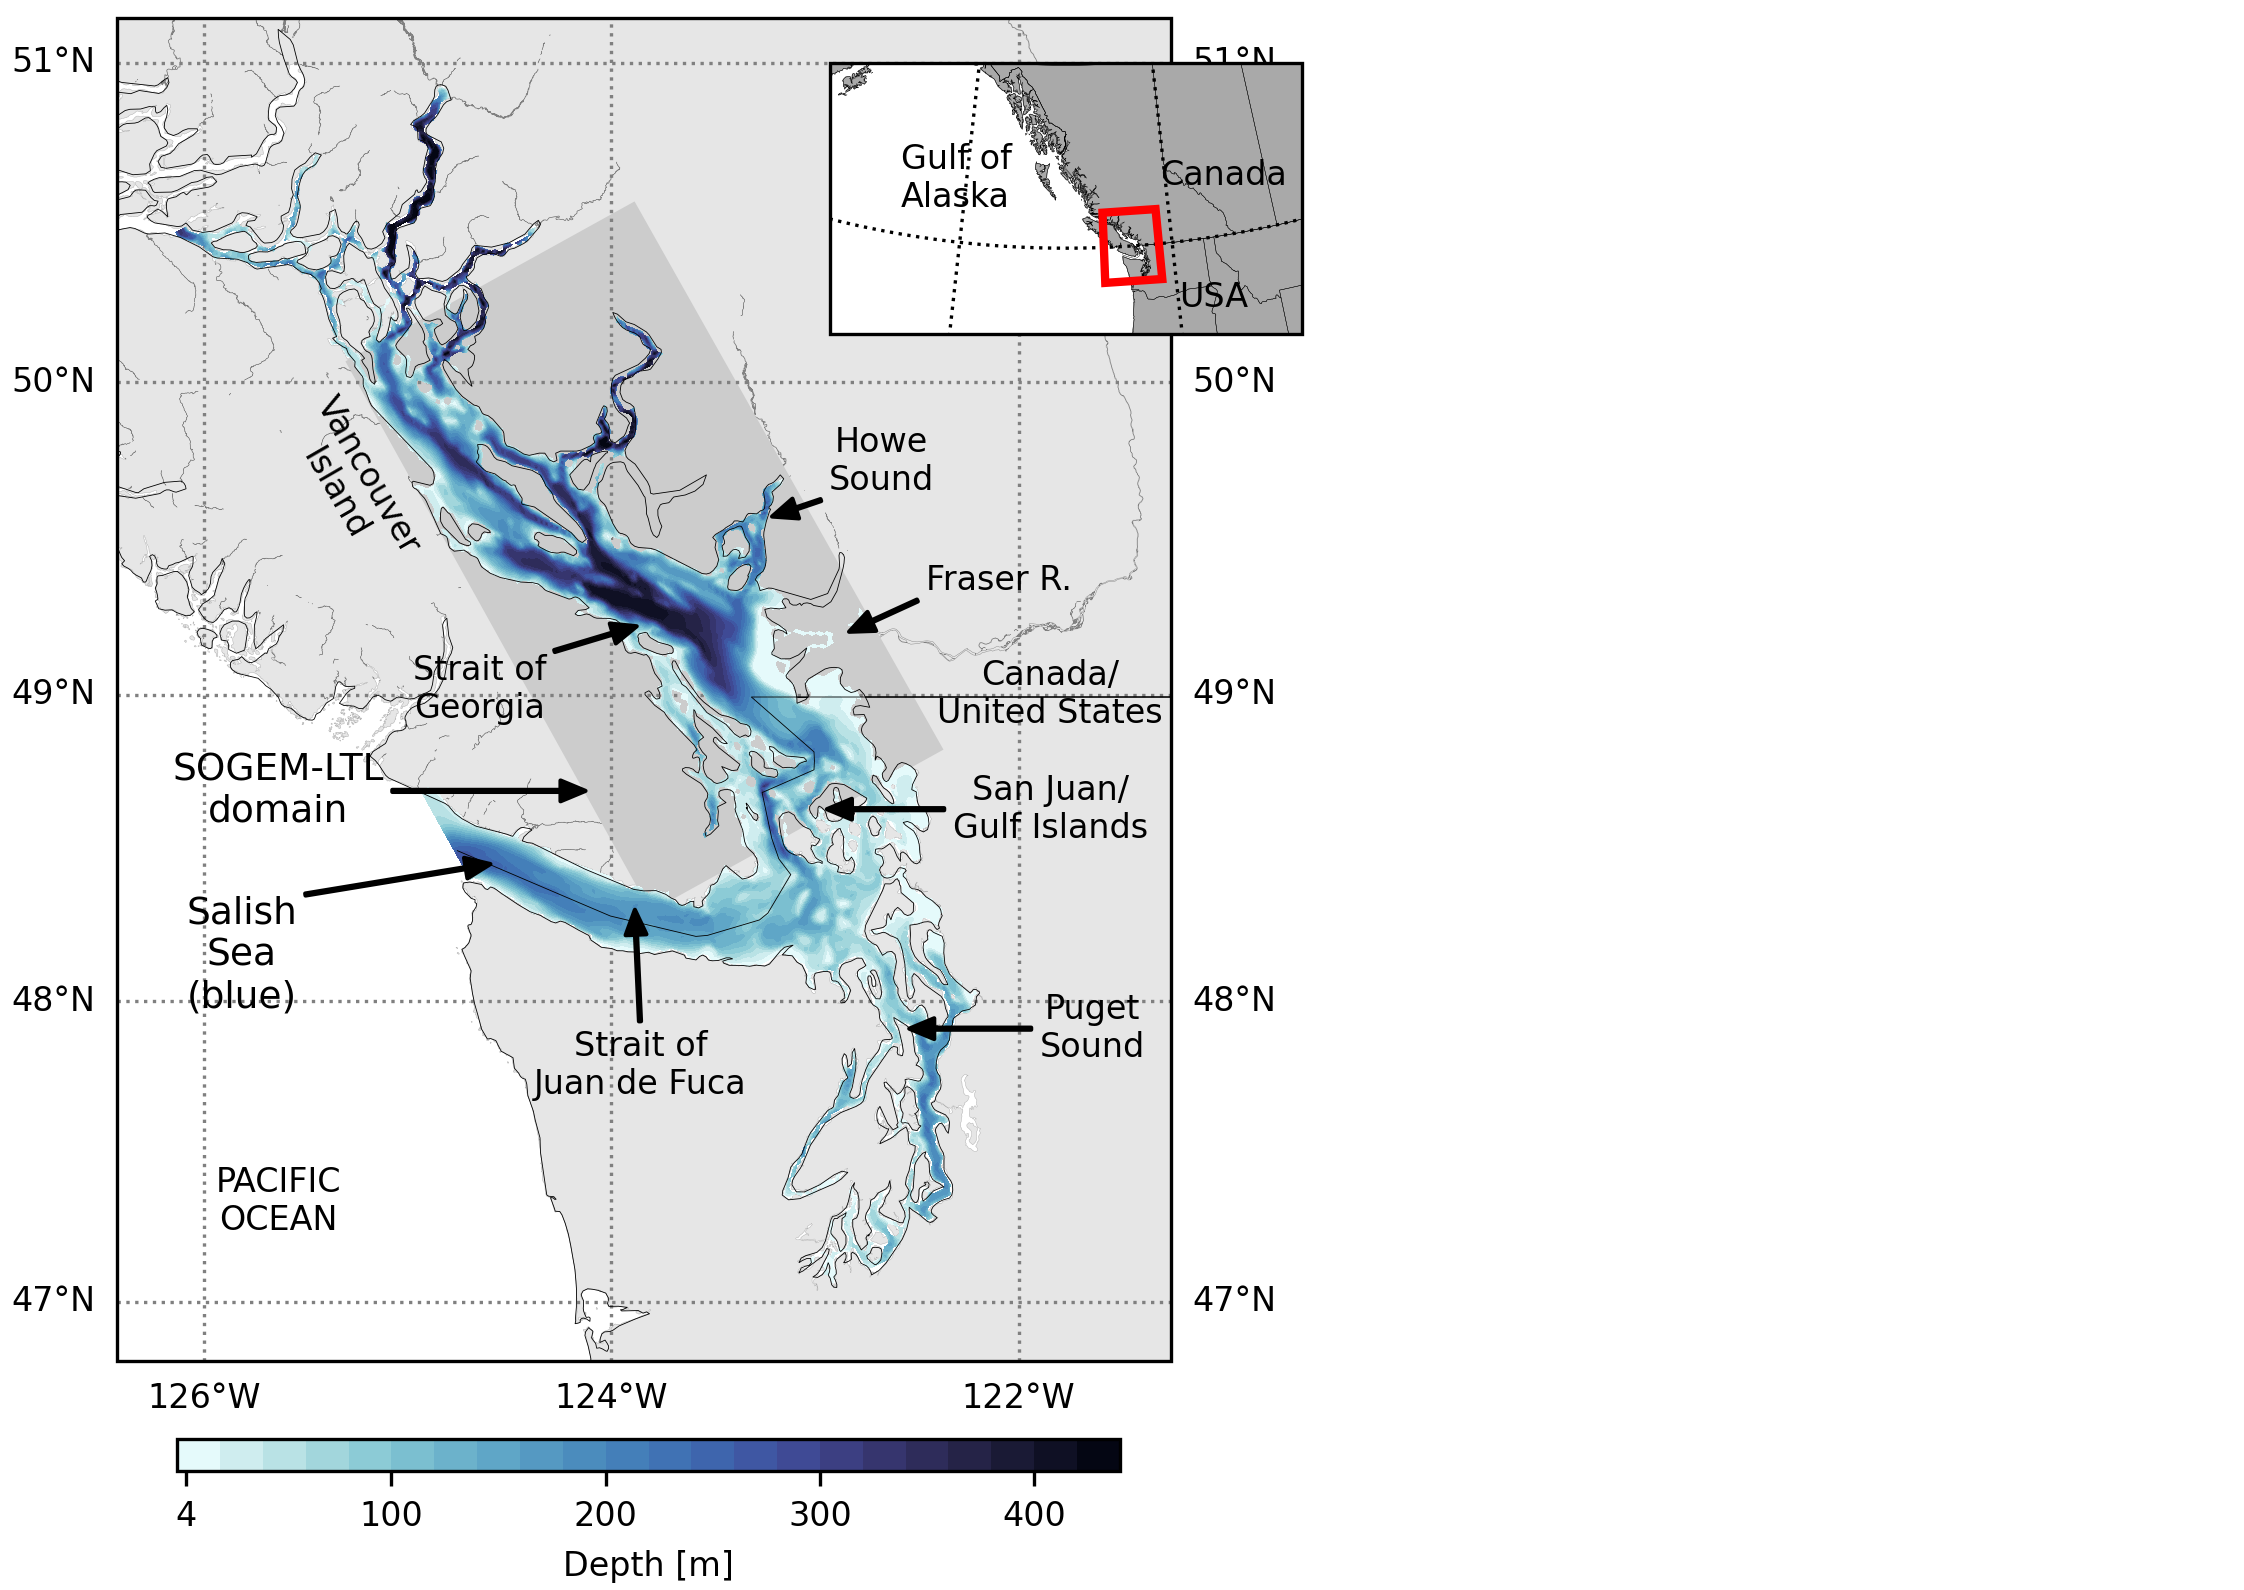
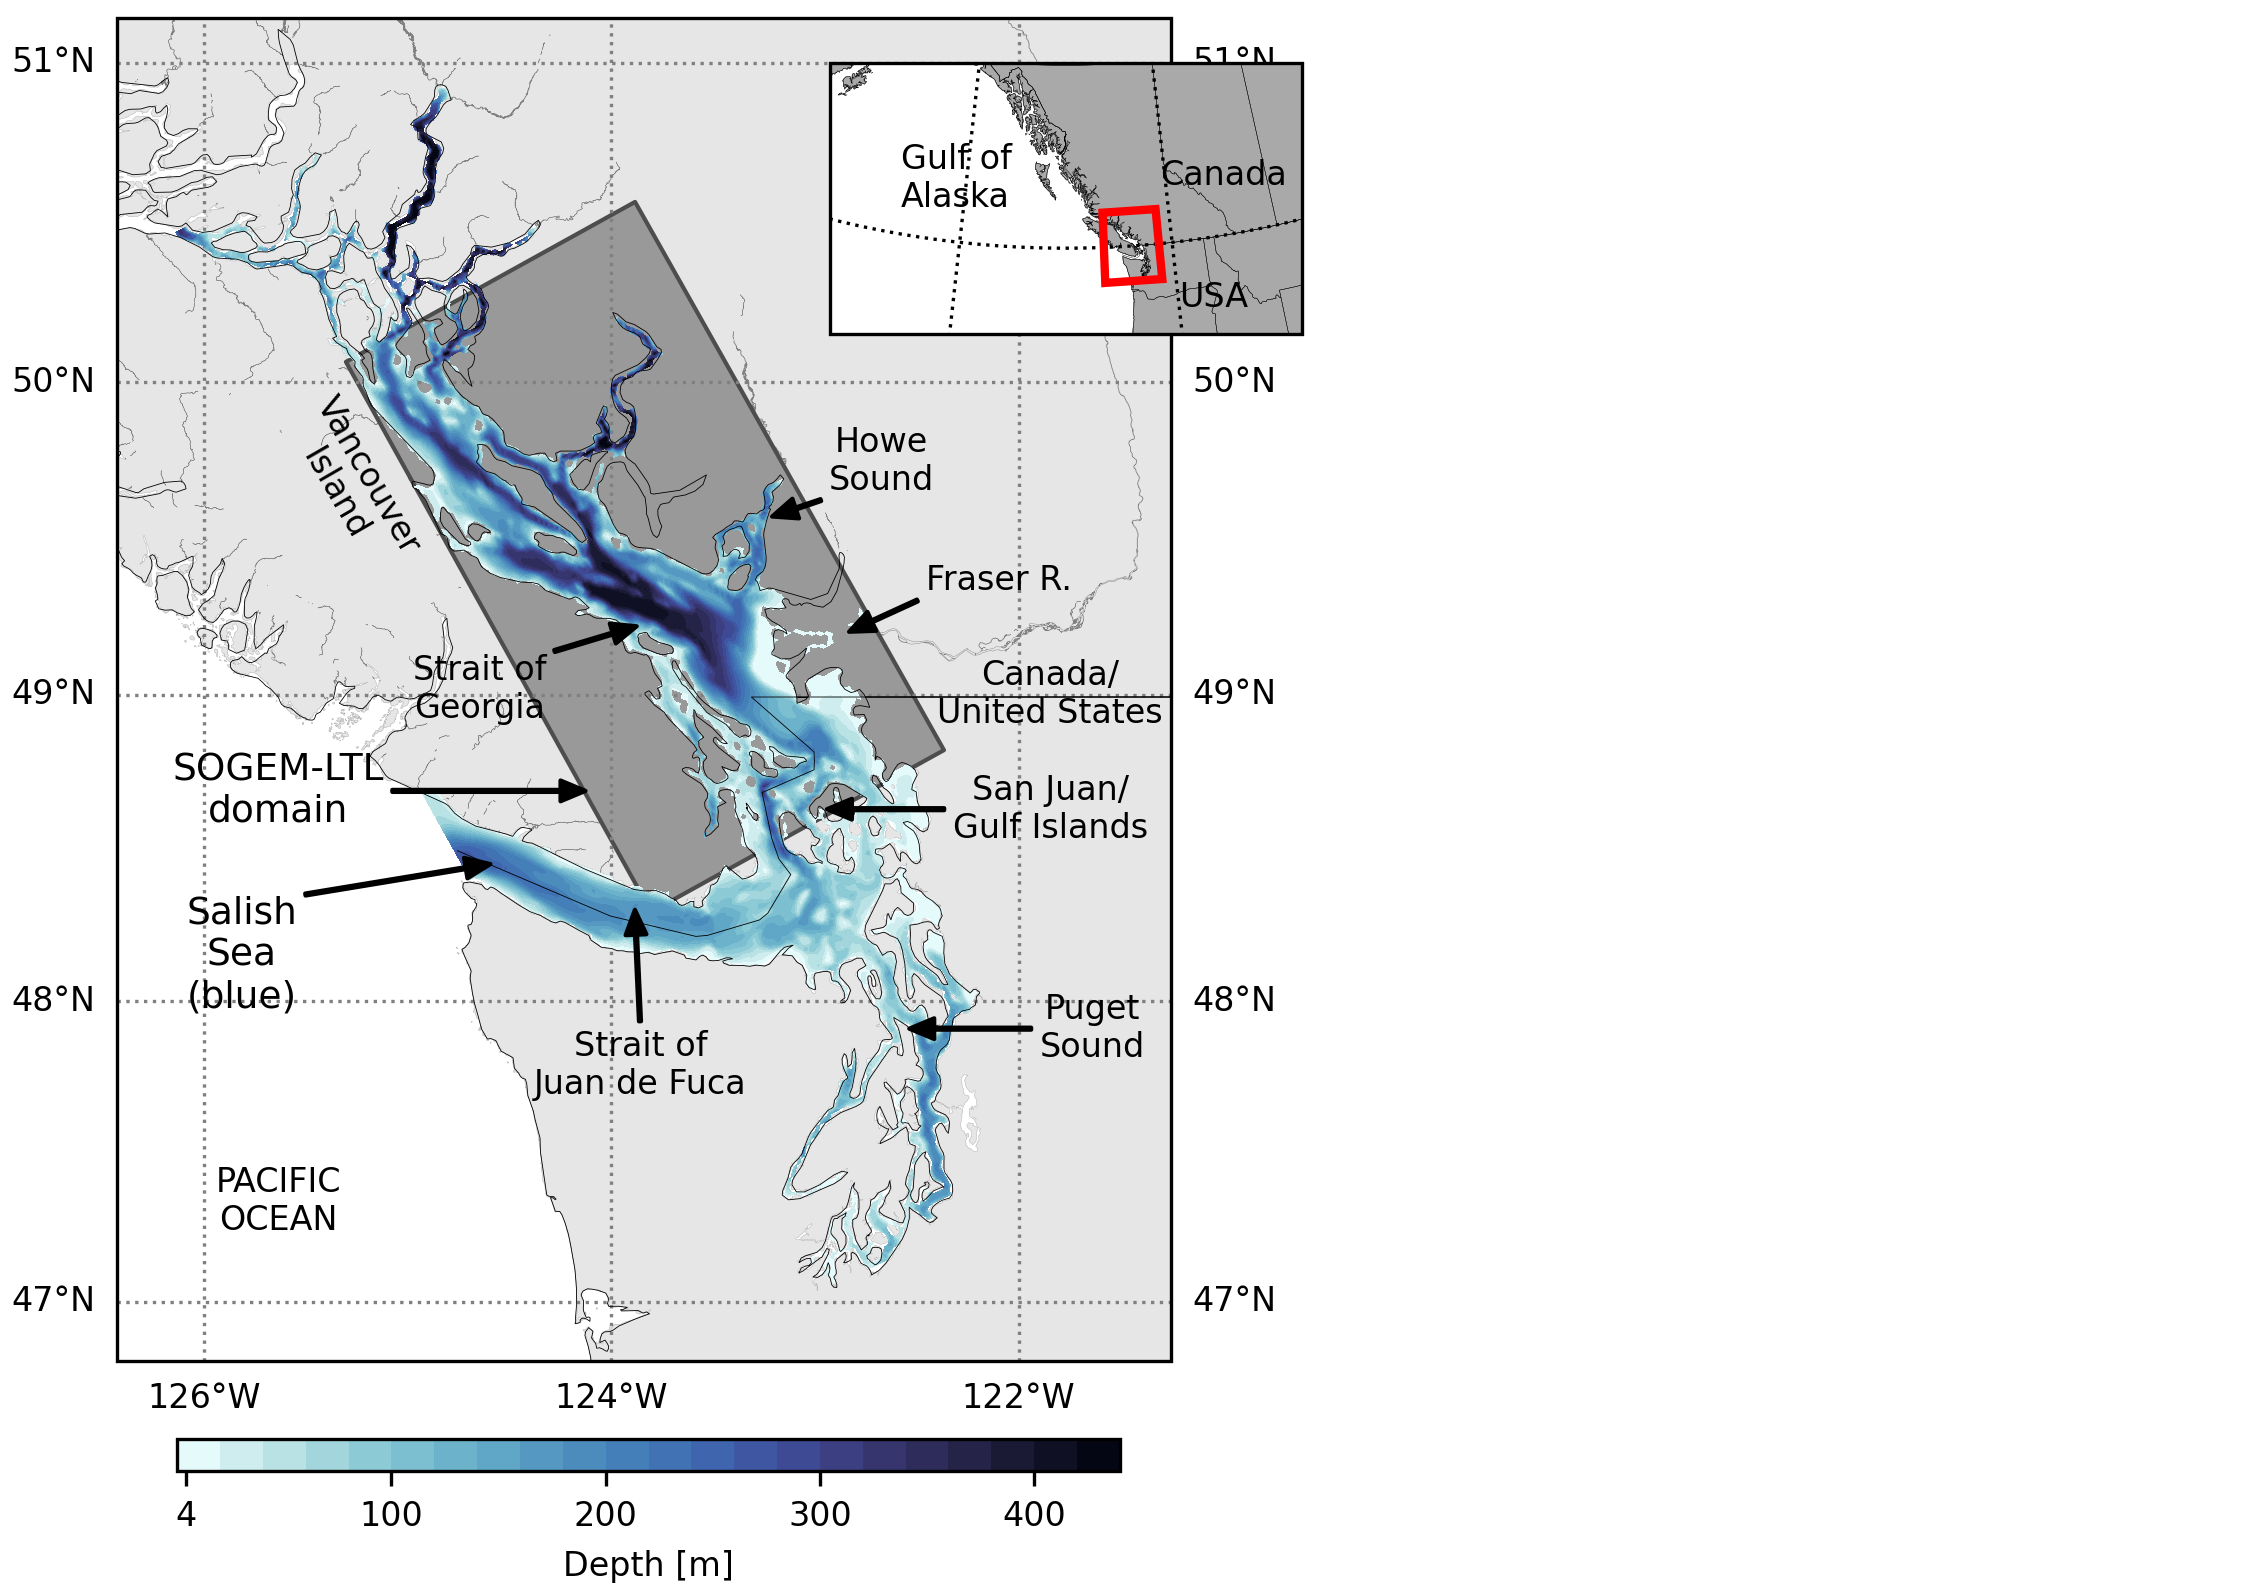
revised fig1

Changed region(s): [[0.156, 0.1233, 0.4367, 0.5855]]

diff --git a/scripts/PublicationScripts/maps and ref vis/Visual - Fig 1 - Map.py b/scripts/PublicationScripts/maps and ref vis/Visual - Fig 1 - Map.py
@@ -156,9 +156,14 @@ if imap == True:
     verts_ecospace=[[ewe_navlon_TL, ewe_navlat_TL],[ewe_navlon_TR, ewe_navlat_TR],
                          [ewe_navlon_BR, ewe_navlat_BR],[ewe_navlon_BL, ewe_navlat_BL]]
     poly_ecospace = geometry.polygon.Polygon(verts_ecospace)
+    # model rec face
     p = ax0.add_geometries([poly_ecospace,],crs=crt.crs.PlateCarree(),
-                         facecolor=(.8, .8, .8), edgecolor=None,
+                         facecolor=(.6, .6, .6), edgecolor=None,
                          lw=1, zorder=2)
+   # model outline
+    p2 = ax0.add_geometries([poly_ecospace, ], crs=crt.crs.PlateCarree(),
+                           facecolor='none', edgecolor=(.5, .5, .5),
+                           lw=0.8, zorder=4)
 
     # major lines of long and lat
     #    gl = ax0.gridlines(crs=crt.crs.PlateCarree(), draw_labels=True,
@@ -195,15 +200,21 @@ if imap == True:
 
     arrow_w = 0.5
 
-    ax0.annotate('SOGEM-LTL\ndomain',xy=(-0.32e5,6.19e6),xytext=(-2e5,6.19e6),
-                arrowprops=dict(facecolor='black', width=arrow_w,headwidth=5,headlength=6),fontsize=9, ha='center', va='center')
+    ax0.annotate('SOGEM-LTL\ndomain',xy=(-0.32e5,6.19e6),
+                 xytext=(-2e5,6.19e6),
+                arrowprops=dict(facecolor='black', width=arrow_w,headwidth=5,headlength=6),
+                 fontsize=9,
+                 ha='center', va='center',
+                 zorder=4
+                 )
 
     ax0.annotate('Salish\nSea\n(blue)', xy=(-0.84e5, 6.15e6), xytext=(-2.2e5, 6.10e6),
                  arrowprops=dict(facecolor='black', width=arrow_w, headwidth=5, headlength=6), fontsize=9, ha='center',
-                 va='center')
+                 va='center', zorder=4)
 
     ax0.annotate('Strait of\nGeorgia', xy=(-0.04e5, 6.28e6), xytext=(-.9e5, 6.23e6),
-                 arrowprops=dict(facecolor='black', width=arrow_w, headwidth=5, headlength=6), fontsize=8, ha='center')
+                 arrowprops=dict(facecolor='black', width=arrow_w, headwidth=5, headlength=6),
+                 fontsize=8, ha='center', zorder=4)
 
     # ax0.annotate('Toba\nInlet', xy=(-0.58e5, 6.495e6), xytext=(0.05e5, 6.485e6),
     #              arrowprops=dict(facecolor='black', width=arrow_w, headwidth=5, headlength=6), fontsize=8, ha='center')
@@ -217,30 +228,30 @@ if imap == True:
 
     ax0.annotate('Howe\nSound', xy=(0.7e5, 6.34e6), xytext=(1.3e5, 6.37e6),
                  arrowprops=dict(facecolor='black', width=arrow_w, headwidth=5, headlength=6), fontsize=8, ha='center',
-                 va='center')
+                 va='center', zorder=4)
 
     # ax0.annotate('Johnstone\nStrait', xy=(-2.35e5, 6.49e6), xytext=(-2.25e5, 6.56e6),
     #              arrowprops=dict(facecolor='black', width=arrow_w, headwidth=5, headlength=6), fontsize=8, ha='center')
 
     ax0.annotate('Strait of\nJuan de Fuca', xy=(-0.05e5, 6.125e6), xytext=(-0.02e5, 6.04e6),
                  arrowprops=dict(facecolor='black', width=arrow_w, headwidth=5, headlength=6), fontsize=8, ha='center',
-                 va='center')
+                 va='center', zorder=4)
 
     ax0.annotate('Puget\nSound', xy=(1.45e5, 6.06e6), xytext=(2.45e5, 6.06e6),
                  arrowprops=dict(facecolor='black', width=arrow_w, headwidth=5, headlength=6), fontsize=8, ha='center',
-                 va='center')
+                 va='center', zorder=4)
 
     ax0.annotate('San Juan/\nGulf Islands', xy=(1.0e5, 6.18e6), xytext=(2.22e5, 6.18e6),
                  arrowprops=dict(facecolor='black', width=arrow_w, headwidth=5, headlength=6), fontsize=8, ha='center',
-                 va='center')
+                 va='center', zorder=4)
 
-    ax0.annotate('Canada/\nUnited States', xy=(2.22e5, 6.227e6), ha='center')
-    ax0.annotate('PACIFIC\nOCEAN', xy=(-2.0e5, 5.95e6), ha='center')
+    ax0.annotate('Canada/\nUnited States', xy=(2.22e5, 6.227e6), ha='center', zorder=4)
+    ax0.annotate('PACIFIC\nOCEAN', xy=(-2.0e5, 5.95e6), ha='center', zorder=4)
 
-    ax0.annotate('Vancouver\nIsland', xy=(-1.6e5, 6.31e6), fontsize=8, ha='center', rotation=300)
+    ax0.annotate('Vancouver\nIsland', xy=(-1.6e5, 6.31e6), fontsize=8, ha='center', rotation=300, zorder=4)
 
     ax0.annotate('Fraser R.', xy=(1.121e5, 6.277e6), xytext=(1.54e5, 6.3e6),
-                 arrowprops=dict(facecolor='black', width=arrow_w, headwidth=5, headlength=6), fontsize=8)
+                 arrowprops=dict(facecolor='black', width=arrow_w, headwidth=5, headlength=6), fontsize=8, zorder=4)
 
     #     ax0.annotate('200 km',xy=(1.45e5,5.9e6),xytext=(1.3e5,5.9e6),
     #             arrowprops=dict(facecolor='black',arrowstyle='<->'),
@@ -271,8 +282,8 @@ if imap == True:
     a = 18
 
     # Map Inset
-    xmap, ymap = [-150, -110], [42, 59]
-    ax1 = fig.add_axes([0.37, 0.77, 0.21, 0.21], projection=crt.crs.LambertConformal(np.mean(xmap), np.mean(ymap)))
+    xmap, ymap = [-140, -110], [43, 58]
+    ax1 = fig.add_axes([0.4, 0.77, 0.21, 0.21], projection=crt.crs.LambertConformal(np.mean(xmap), np.mean(ymap)))
     ax1.set_extent(xmap + ymap)
     ax1.add_feature(feature.GSHHSFeature('low', edgecolor='k', facecolor='darkgray', linewidth=0.1))
     ax1.add_feature(feature.BORDERS, linewidth=0.1, zorder=10)
@@ -282,20 +293,24 @@ if imap == True:
                             ylim[1] - ylim[0],
                             transform=crt.crs.PlateCarree(),
                             fill=False, edgecolor='r', zorder=10, linewidth=2))
-    ax1.text(0.15, 0.47, 'Gulf of\nAlaska', transform=ax1.transAxes)
+    ax1.text(0.18, 0.2, 'Northeast\nPacific\nOcean',
+             ha='center',
+             transform=ax1.transAxes)
     ax1.text(0.7, 0.55, 'Canada', transform=ax1.transAxes)
     ax1.text(0.74, 0.1, 'USA', transform=ax1.transAxes)
 
     xticks, yticks = list(range(-160, -100, 20)), list(range(49, 80, 12))
     ax1.gridlines(linestyle=":", color='k', xlocs=xticks, ylocs=yticks, draw_labels=False)
     #     ax1.xlabels_top = False
-    #     ax1.xlabels_left = False
-    #     ax1.ylabels_left = False
+    # ax1.xlabels_left = False
+
     #     ax1.ylabels_right= False
     #     ax1.ylabels_top = False
     #     ax1.direction = "in"
     ax1.xaxis.set_major_formatter(LONGITUDE_FORMATTER)
     ax1.yaxis.set_major_formatter(LATITUDE_FORMATTER)
+    ax1.ylabels_left = False
+
 
 #     gl = ax0.gridlines(linestyle=":", color='gray', draw_labels=True, xlocs=xlocs, ylocs=ylocs)
 #     gl.xlabels_top, gl.ylabels_right = False, False
@@ -307,7 +322,7 @@ if imap == True:
 
 # plt.tight_layout() # didn't help, added 2024-09
 
-plt.savefig('..//..//..//figs//Fig01_test.png', dpi=300)
+plt.savefig('..//..//..//figs//Fig01.png', dpi=300)
 plt.show()
 
 # plt.savefig('..//..//figs//Fig01_noecospace_test.pdf', dpi=300)
